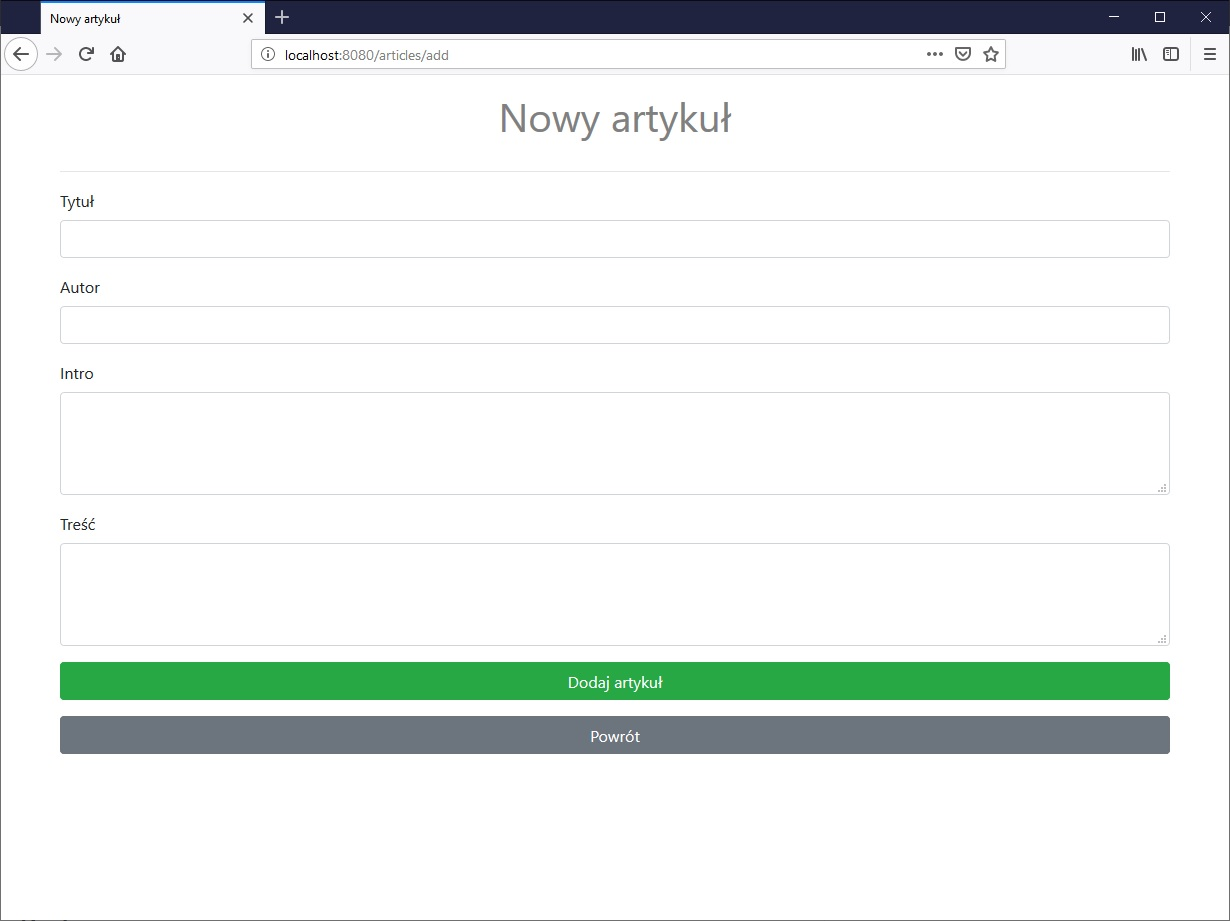
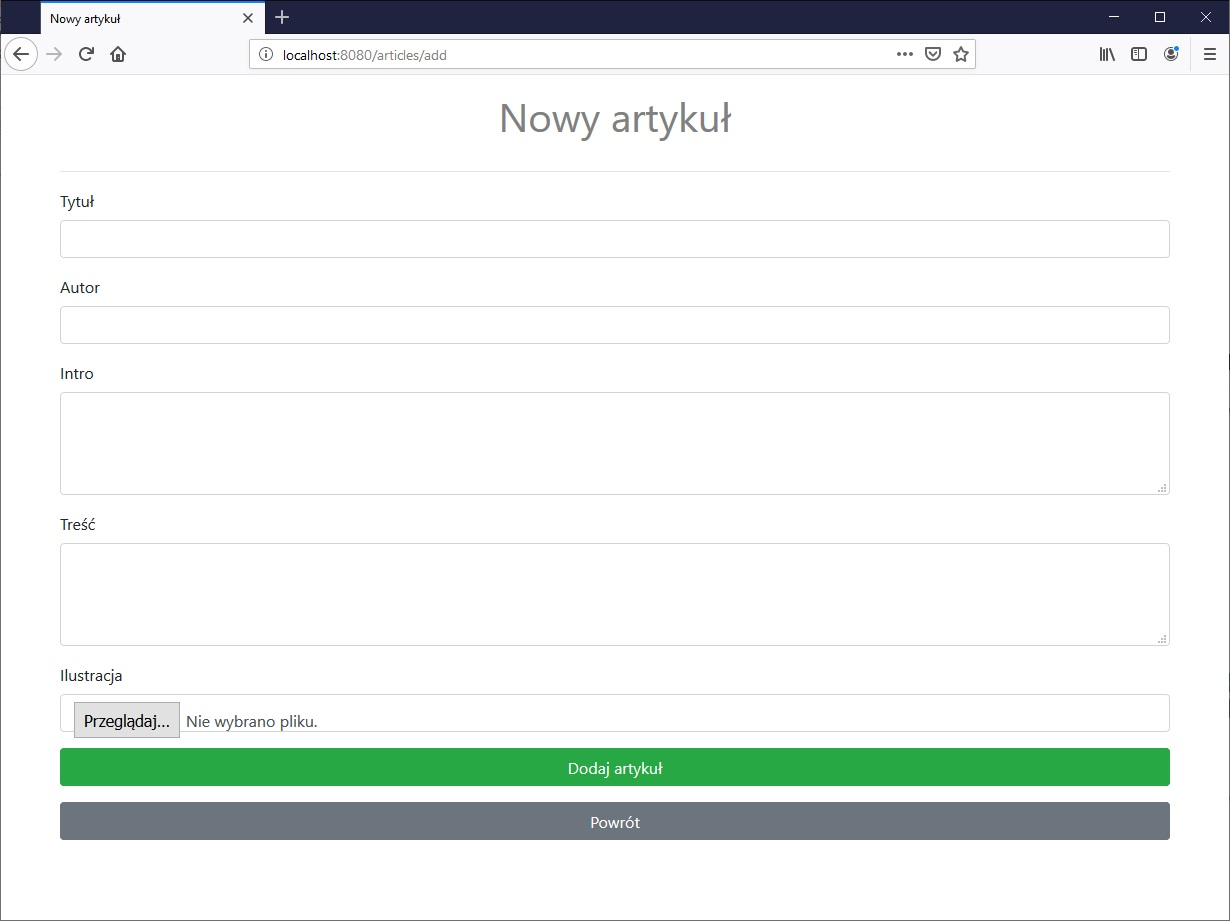
blog | wyświetlanie ilustracji

diff --git a/blog/src/main/resources/static/css/custom.css b/blog/src/main/resources/static/css/custom.css
@@ -15,6 +15,11 @@
 .articles-info{
 	color: #606060;
 	font-style: italic;
+}+
+
+.articles-image{
+	width: 100%;
+  	height: auto;
 }
 
 .user-buttons{

diff --git a/blog/src/main/java/org/kamil/blog/BlogApplication.java b/blog/src/main/java/org/kamil/blog/BlogApplication.java
@@ -1,13 +1,22 @@
 package org.kamil.blog;
 
+import java.util.concurrent.TimeUnit;
+
 import org.springframework.boot.SpringApplication;
 import org.springframework.boot.autoconfigure.SpringBootApplication;
 import org.springframework.boot.autoconfigure.security.servlet.SecurityAutoConfiguration;
+import org.springframework.http.CacheControl;
+import org.springframework.web.servlet.config.annotation.ResourceHandlerRegistry;
 
 @SpringBootApplication(exclude = { SecurityAutoConfiguration.class })
 public class BlogApplication {
 	
     public static void main( String[] args ) {
     	SpringApplication.run(BlogApplication.class, args);
+    }
+    
+    public void addResourceHandlers(ResourceHandlerRegistry registry) {
+        registry.addResourceHandler("/images/**").addResourceLocations("/src/main/resources/static/images/")
+                .setCacheControl(CacheControl.maxAge(2, TimeUnit.HOURS).cachePublic());
     }
 }

diff --git a/blog/src/main/java/org/kamil/blog/service/impl/ArticleServiceImpl.java b/blog/src/main/java/org/kamil/blog/service/impl/ArticleServiceImpl.java
@@ -36,13 +36,15 @@ public class ArticleServiceImpl implements ArticleService {
 
 	@Override
 	public String saveImage(MultipartFile imageFile) throws Exception {
-		String folder = "/photos/" + imageFile.getOriginalFilename().replaceFirst("[.][^.]+$", "") 
-				+ Math.random() * (9999 - 1000) + ".jpg";
-		byte[] bytes = imageFile.getBytes();
-		Path path = Paths.get(folder);
+		String fileName = imageFile.getOriginalFilename().replaceFirst("[.][^.]+$", "");
+		String fileExt = imageFile.getOriginalFilename().split("\\.")[1];		
+		String file = fileName + (int) (Math.random() * (9999 - 1000)) + "." + fileExt;		
+		
+		byte[] bytes = imageFile.getBytes();		
+		Path path = Paths.get(new File("src\\main\\resources\\static\\images").getAbsolutePath() + "\\articles\\" + file);
 		Files.write(path, bytes);
 		
-		return folder;
+		return file;
 	}
 
 }

diff --git a/blog/src/main/java/org/kamil/blog/SecurityConfiguration.java b/blog/src/main/java/org/kamil/blog/SecurityConfiguration.java
@@ -22,7 +22,7 @@ public class SecurityConfiguration extends WebSecurityConfigurerAdapter {
 	@Override
 	protected void configure(HttpSecurity http) throws Exception {
 		http.authorizeRequests()
-		.antMatchers("/", "/home", "/articles/article", "/css/**").permitAll()		
+		.antMatchers("/", "/home", "/articles/article", "/css/**", "/images/**").permitAll()		
 		.antMatchers("/articles/").hasRole("USER")
 		.antMatchers("/articles/add").hasRole("ADMIN")
 		.anyRequest().authenticated()

diff --git a/blog/README.md b/blog/README.md
@@ -2,6 +2,7 @@
 
 ## Funkcjonalności
 * dodawanie artykułów,
+* dodawanie ilustracji do artykułów,
 * logowanie użytkowników,
 
 ## Podgląd
